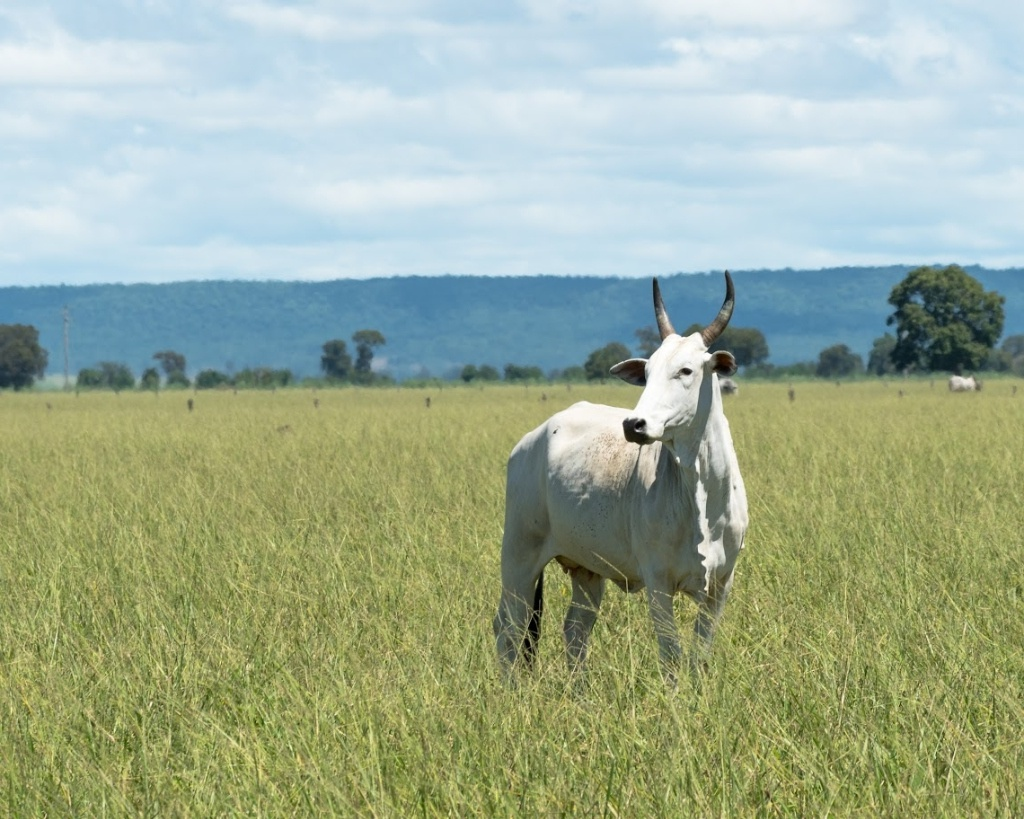
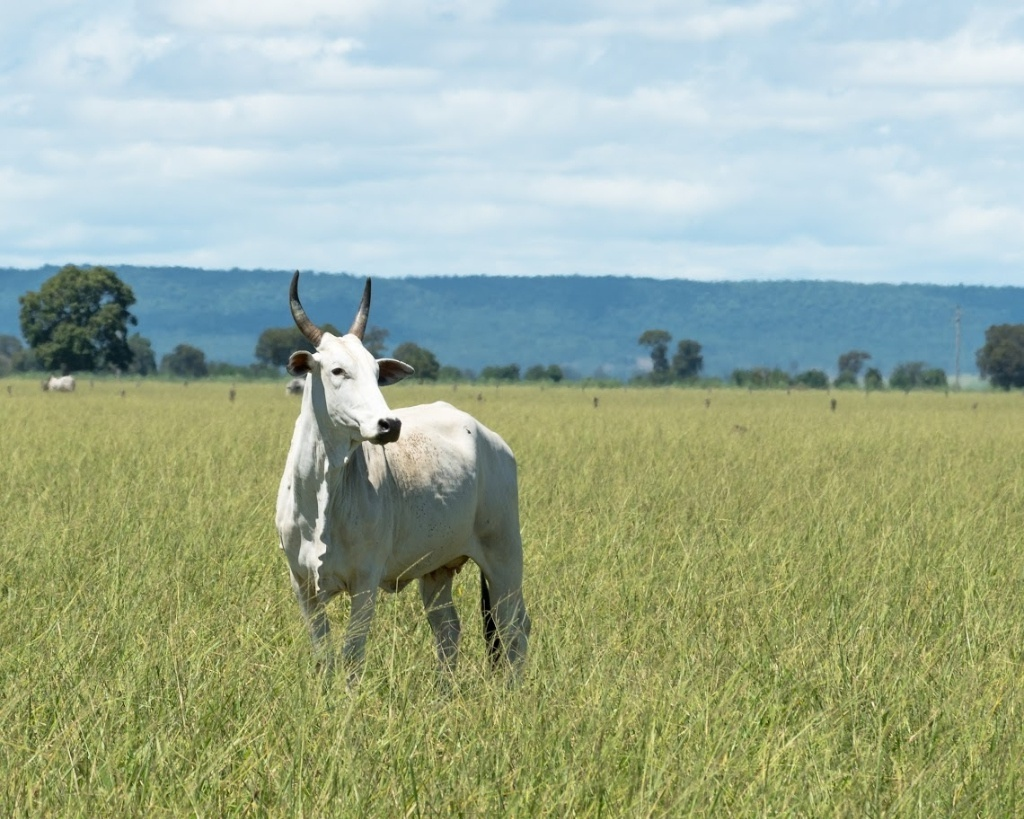
Espelha foto da capa e aumenta barra superior
- cerrado_pasture_bg.jpg espelhada horizontalmente (no arquivo)
- Barra superior mais alta: logos WRI/LAPIG/UFG e texto das abas maiores
- scroll-padding-top ajustado à nova altura da barra

diff --git a/docs/assets/css/style.css b/docs/assets/css/style.css
@@ -56,7 +56,7 @@
 html {
   font-size: 120%;
   scroll-behavior: smooth;
-  scroll-padding-top: 84px;
+  scroll-padding-top: 110px;
 }
 
 body {
@@ -87,7 +87,7 @@ body {
 .site-nav__inner {
   max-width: var(--max-width-wide);
   margin: 0 auto;
-  padding: 0.55rem var(--gutter);
+  padding: 0.9rem var(--gutter);
   display: flex;
   align-items: center;
   justify-content: space-between;
@@ -97,7 +97,7 @@ body {
 .site-nav__brand-logos {
   display: inline-flex;
   align-items: center;
-  gap: 0.9rem;
+  gap: 1.2rem;
   text-decoration: none;
   transition: opacity var(--transition);
 }
@@ -113,26 +113,26 @@ body {
 }
 
 .site-nav__logo--wri {
-  height: 32px;
+  height: 44px;
   width: auto;
-  max-width: 165px;
+  max-width: 225px;
 }
 
 .site-nav__logo--lapig {
-  height: 27px;
+  height: 37px;
   width: auto;
-  max-width: 140px;
+  max-width: 190px;
 }
 
 .site-nav__logo--ufg {
-  height: 35.5px;
+  height: 48px;
   width: auto;
-  max-width: 150px;
+  max-width: 205px;
 }
 
 .site-nav__logo-divider {
   width: 1px;
-  height: 26px;
+  height: 36px;
   background: var(--color-rule);
 }
 
@@ -153,7 +153,7 @@ body {
 
 .site-nav__links a {
   font-family: var(--font-sans);
-  font-size: 0.88rem;
+  font-size: 1rem;
   font-weight: 600;
   color: var(--color-fg);
   text-decoration: none;
